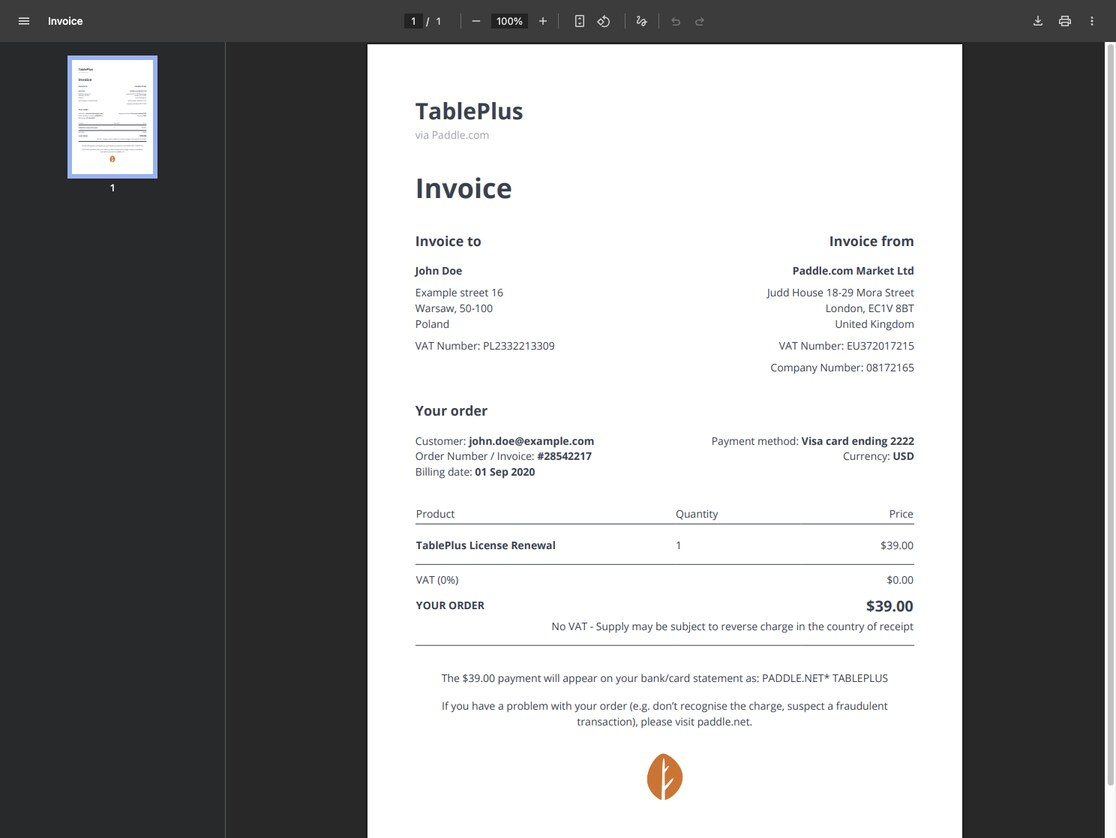
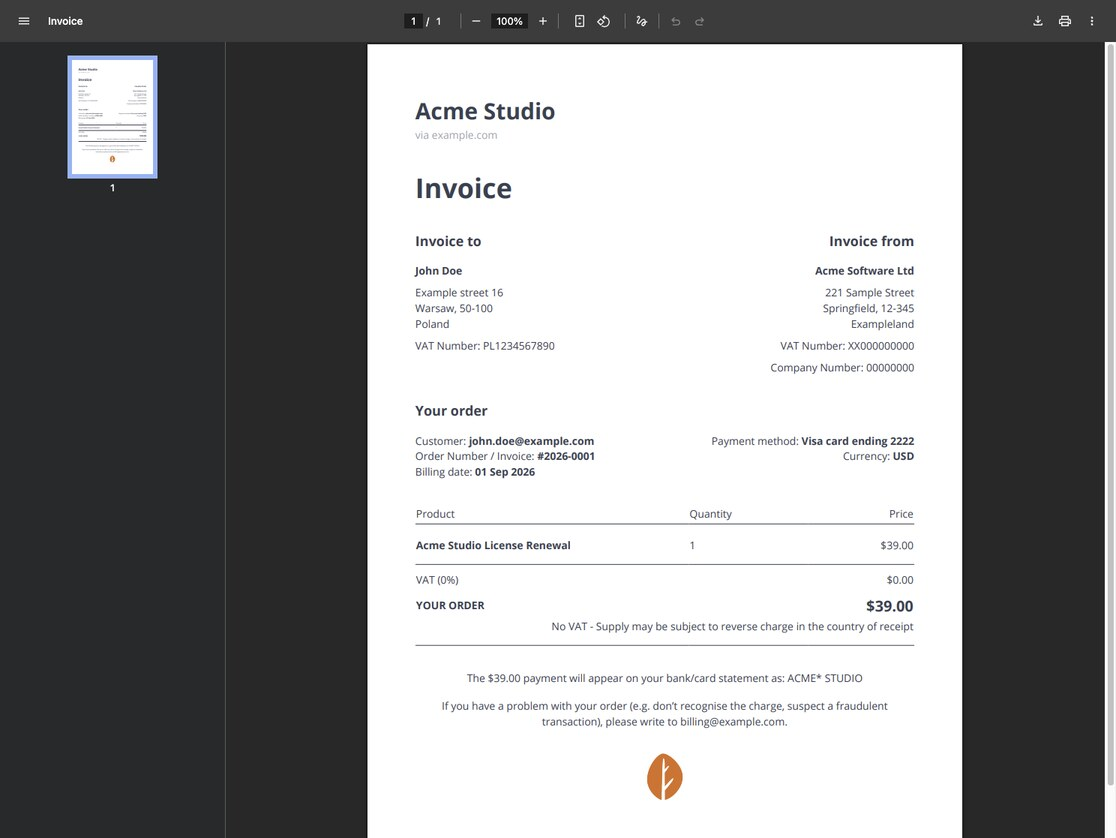
Use a fictional company in the demo invoice and refresh its screenshots

diff --git a/views/pdf/invoice.htm b/views/pdf/invoice.htm
@@ -3,9 +3,9 @@ description = "Example invoice with custom font and image embed"
 layout = "renatio.dynamicpdf::pdf.layouts.default"
 ==
 <div class="text-sm text-gray-700 leading-none">
-    <h2 class="text-3xl font-bold leading-none">TablePlus</h2>
+    <h2 class="text-3xl font-bold leading-none">Acme Studio</h2>
 
-    <p class="text-gray-400">via Paddle.com</p>
+    <p class="text-gray-400">via example.com</p>
 
     <div class="my-8">
         <h1 class="text-4xl font-bold leading-none">Invoice</h1>
@@ -22,23 +22,23 @@ layout = "renatio.dynamicpdf::pdf.layouts.default"
             Poland
         </p>
 
-        <p>VAT Number: PL2332213309</p>
+        <p>VAT Number: PL1234567890</p>
     </div>
 
     <div class="float-right w-1/2 text-right">
         <h4 class="mb-4 text-lg font-bold leading-none">Invoice from</h4>
 
-        <p class="mb-2 font-bold">Paddle.com Market Ltd</p>
+        <p class="mb-2 font-bold">Acme Software Ltd</p>
 
         <p class="mb-2">
-            Judd House 18-29 Mora Street<br>
-            London, EC1V 8BT<br>
-            United Kingdom
+            221 Sample Street<br>
+            Springfield, 12-345<br>
+            Exampleland
         </p>
 
-        <p class="mb-2">VAT Number: EU372017215</p>
+        <p class="mb-2">VAT Number: XX000000000</p>
 
-        <p>Company Number: 08172165</p>
+        <p>Company Number: 00000000</p>
     </div>
 
     <div class="clear-both"></div>
@@ -47,8 +47,8 @@ layout = "renatio.dynamicpdf::pdf.layouts.default"
 
     <div class="float-left w-1/2">
         <p>Customer: <span class="font-bold">john.doe@example.com</span></p>
-        <p>Order Number / Invoice: <span class="font-bold">#28542217</span></p>
-        <p>Billing date: <span class="font-bold">01 Sep 2020</span></p>
+        <p>Order Number / Invoice: <span class="font-bold">#2026-0001</span></p>
+        <p>Billing date: <span class="font-bold">01 Sep 2026</span></p>
     </div>
 
     <div class="float-right text-right">
@@ -68,7 +68,7 @@ layout = "renatio.dynamicpdf::pdf.layouts.default"
         </thead>
         <tbody>
             <tr>
-                <td class="font-bold border-b border-solid border-gray-700 py-4">TablePlus License Renewal</td>
+                <td class="font-bold border-b border-solid border-gray-700 py-4">Acme Studio License Renewal</td>
                 <td class="border-b border-solid border-gray-700 py-4">1</td>
                 <td class="text-right border-b border-solid border-gray-700 py-4">$39.00</td>
             </tr>
@@ -93,11 +93,11 @@ layout = "renatio.dynamicpdf::pdf.layouts.default"
 
     <p class="mt-8 text-center">
         The $39.00 payment will appear on your bank/card statement as:
-        PADDLE.NET* TABLEPLUS
+        ACME* STUDIO
     </p>
 
     <p class="mt-4 text-center">
-        If you have a problem with your order (e.g. don’t recognise the charge, suspect a fraudulent transaction), please visit paddle.net.
+        If you have a problem with your order (e.g. don’t recognise the charge, suspect a fraudulent transaction), please write to billing@example.com.
     </p>
 
     <p class="text-center mt-8"><img class="w-16" src="{{ 'plugins/renatio/dynamicpdf/assets/img/october.png'|pdfasset }}"></p>
